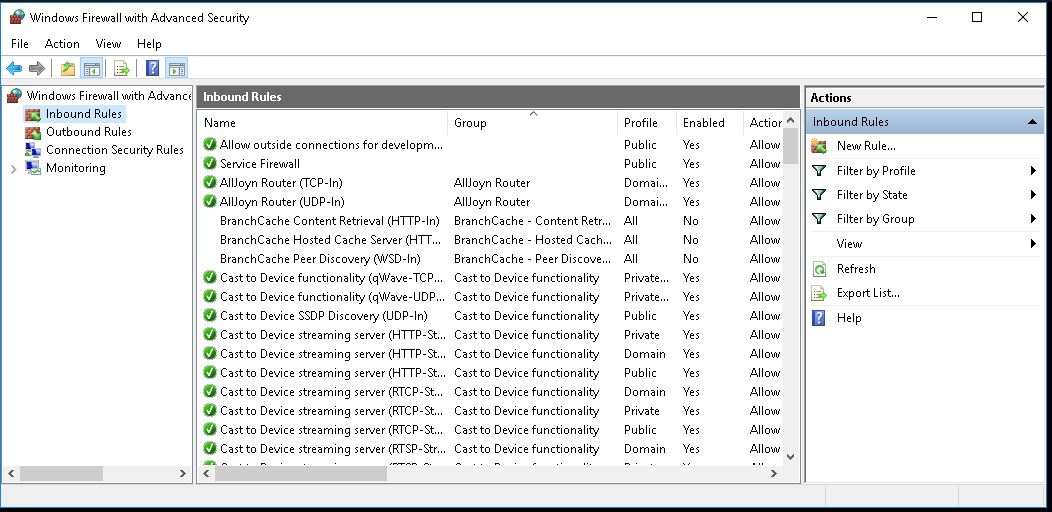
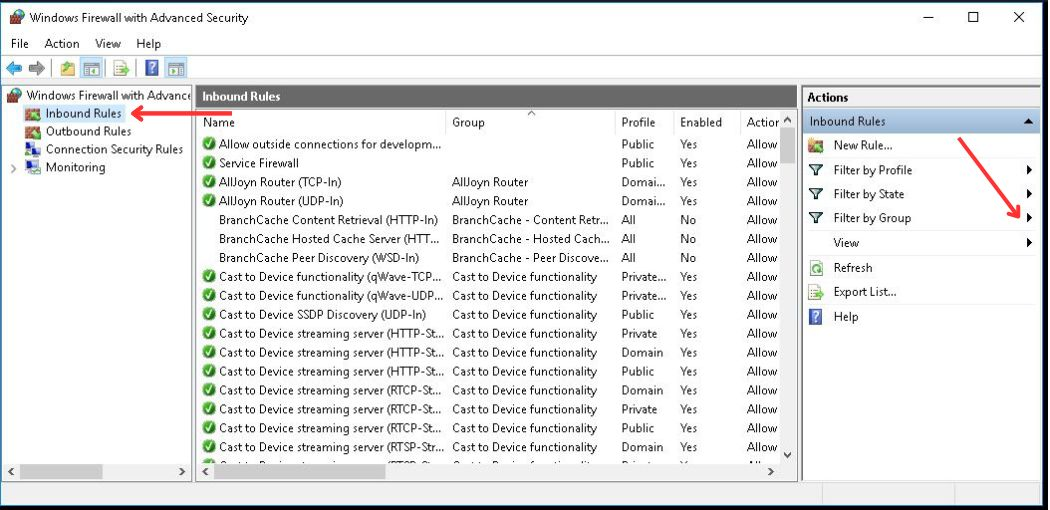
Update Investigating Windows

diff --git a/Investigating Windows/README.md b/Investigating Windows/README.md
@@ -260,3 +260,38 @@ mimikatz
 - Klik Start dan Search 'firewall'
 
 ![alt text](https://github.com/rahardian-dwi-saputra/TryHackMe-WriteUps/blob/main/Investigating%20Windows/assets/iw%2038.JPG)
+
+- Pilih **Inbound Rules** kemudian tekan tanda panah pada **Filter by Group**
+
+![alt text](https://github.com/rahardian-dwi-saputra/TryHackMe-WriteUps/blob/main/Investigating%20Windows/assets/iw%2039.jpg)
+
+- Kemudian pilih **Rules Without a Group** yang berada di baris paling bawah
+
+![alt text](https://github.com/rahardian-dwi-saputra/TryHackMe-WriteUps/blob/main/Investigating%20Windows/assets/iw%2040.jpg)
+
+- Kemudian double klik **Allow outside connections for development**
+
+![alt text](https://github.com/rahardian-dwi-saputra/TryHackMe-WriteUps/blob/main/Investigating%20Windows/assets/iw%2041.jpg)
+
+- Maka akan muncul pop up seperti gambar dibawah ini
+
+![alt text](https://github.com/rahardian-dwi-saputra/TryHackMe-WriteUps/blob/main/Investigating%20Windows/assets/iw%2042.JPG)
+
+- Setelah itu pindah ke tab **Protocols and Ports**
+
+![alt text](https://github.com/rahardian-dwi-saputra/TryHackMe-WriteUps/blob/main/Investigating%20Windows/assets/iw%2043.JPG)
+
+- **Jawaban**
+```sh
+1337
+```
+
+- **Pertanyaan:** Check for DNS poisoning, what site was targeted?
+- Di file **hosts** dari pertanyaan sebelumnya sudah cukup jelas
+
+![alt text](https://github.com/rahardian-dwi-saputra/TryHackMe-WriteUps/blob/main/Investigating%20Windows/assets/iw%2044.jpg)
+
+- **Jawaban**
+```sh
+google.com
+```
